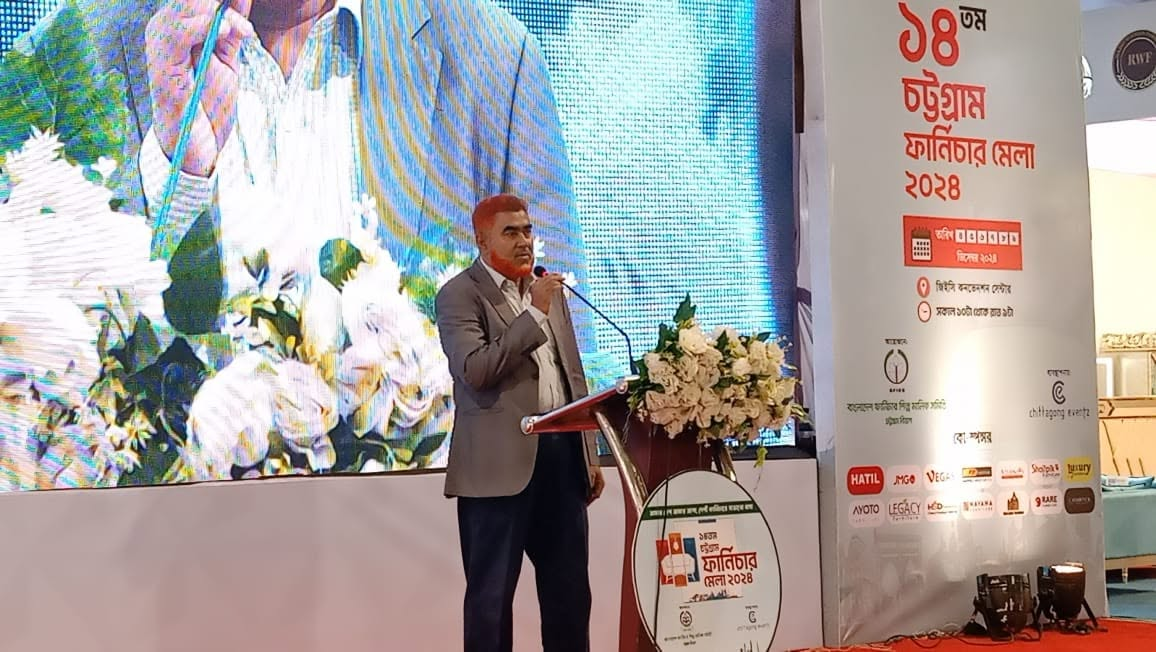
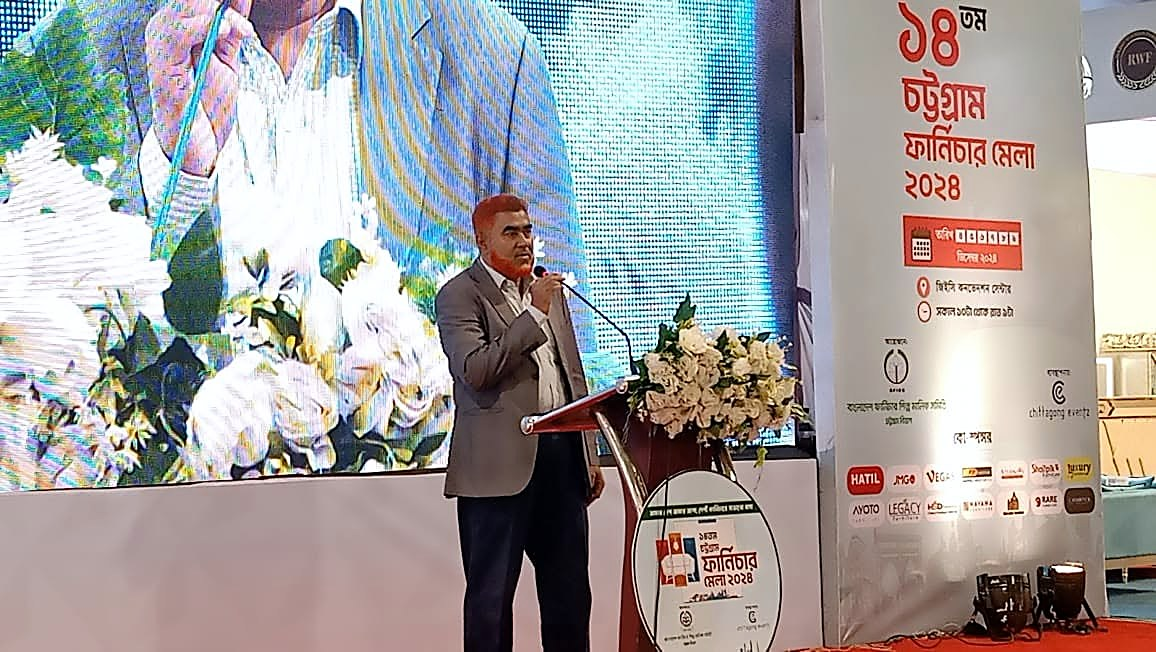
feat: update footer design and improve founder section animations
- Added a new wordmark line to the footer for enhanced branding.
- Refactored footer layout for better responsiveness and aesthetics.
- Replaced the background color of a collection panel for consistency.
- Implemented GSAP animations in the FounderSection for smoother scrolling effects.
- Adjusted image properties in the FounderSection for improved visual presentation.
- Imported a new font (Cinzel) for display purposes in the CSS.

diff --git a/playwright-report/index.html b/playwright-report/index.html
@@ -46,4 +46,4 @@ Error generating stack: `+e.message+`
     <div id='root'></div>
   </body>
 </html>
[2 lines of base64/hex data omitted]

diff --git a/src/components/sections/FounderSection.tsx b/src/components/sections/FounderSection.tsx
@@ -1,19 +1,40 @@
-import { useRef } from 'react'
+import { useEffect, useRef } from 'react'
 import { Link } from 'react-router'
 import { ArrowUpRight } from 'lucide-react'
-import { motion, useReducedMotion, useScroll, useTransform } from 'motion/react'
+import { gsap } from 'gsap'
+import { ScrollTrigger } from 'gsap/ScrollTrigger'
 import { Reveal, RevealImage } from '@/components/common/Reveal'
 import { SectionLabel } from '@/components/common/SectionLabel'
 import { Button } from '@/components/ui/button'
 import { brandImages } from '@/data/assets'
 import { site } from '@/data/site'
 
+gsap.registerPlugin(ScrollTrigger)
+
 export function FounderSection({ compact = false }: { compact?: boolean }) {
   const ref = useRef<HTMLElement>(null)
-  const reduce = useReducedMotion()
-  // Text drifts upward while the section crosses the viewport; progress is clamped so it rests at both ends.
-  const { scrollYProgress } = useScroll({ target: ref, offset: ['start end', 'end start'] })
-  const textY = useTransform(scrollYProgress, [0, 1], [reduce ? 0 : 80, reduce ? 0 : -80])
+  const textRef = useRef<HTMLDivElement>(null)
+
+  // Text drifts upward while the section crosses the viewport and rests once it has left.
+  useEffect(() => {
+    const section = ref.current
+    const text = textRef.current
+    if (!section || !text || window.matchMedia('(prefers-reduced-motion: reduce)').matches) return
+    const ctx = gsap.context(() => {
+      gsap.fromTo(
+        text,
+        { y: 90 },
+        {
+          y: -90,
+          ease: 'none',
+          // Measure after the pinned sections above (priority -2) have reserved their space.
+          scrollTrigger: { trigger: section, start: 'top bottom', end: 'bottom top', scrub: 0.8, invalidateOnRefresh: true, refreshPriority: -3 },
+        }
+      )
+    }, section)
+    ScrollTrigger.refresh()
+    return () => ctx.revert()
+  }, [])
 
   return (
     <section ref={ref} id="founder" className="section-pad overflow-hidden bg-brand-ivory text-brand-brown">
@@ -23,7 +44,7 @@ export function FounderSection({ compact = false }: { compact?: boolean }) {
             src={brandImages.founder}
             alt={`${site.founder.name}, ${site.founder.role} of Heaven Furniture Mart, speaking at the Chattogram Furniture Fair`}
             className="aspect-[4/5] w-full"
-            imgClassName="h-full w-full object-cover object-[42%_18%] saturate-[0.8] contrast-[1.04]"
+            imgClassName="h-full w-full object-cover object-[48%_30%]"
             sizes="(min-width:1024px) 40vw, 100vw"
           />
           <div aria-hidden className="pointer-events-none absolute inset-x-0 top-0 h-[calc(100%-2.5rem)] bg-gradient-to-t from-brand-ivory/40 via-transparent to-transparent" />
@@ -33,7 +54,7 @@ export function FounderSection({ compact = false }: { compact?: boolean }) {
           </Reveal>
         </div>
 
-        <motion.div style={{ y: textY }} className="flex flex-col justify-center will-change-transform lg:col-span-6 lg:col-start-7">
+        <div ref={textRef} className="flex flex-col justify-center will-change-transform lg:col-span-6 lg:col-start-7">
           <Reveal>
             <SectionLabel number={compact ? undefined : '06'}>A word from our founder</SectionLabel>
           </Reveal>
@@ -62,7 +83,7 @@ export function FounderSection({ compact = false }: { compact?: boolean }) {
               </Button>
             </Reveal>
           )}
-        </motion.div>
+        </div>
       </div>
     </section>
   )

diff --git a/src/components/layout/Footer.tsx b/src/components/layout/Footer.tsx
@@ -18,6 +18,8 @@ const socials = [
   { label: 'YouTube', href: site.social.youtube },
 ]
 
+const WORDMARK_LINE = 'FURNITURE MART'.split('')
+
 export function Footer() {
   return (
     <footer className="relative overflow-hidden bg-brand-ink text-brand-ivory">
@@ -116,14 +118,20 @@ export function Footer() {
         </div>
       </div>
 
-      <div
-        aria-hidden
-        className="pointer-events-none flex flex-col items-center select-none px-2 pb-3 text-center leading-none"
-      >
-        <span className="font-serif text-[16vw] leading-[0.8] tracking-[0.06em] text-brand-ivory/[0.035]">HEAVEN</span>
-        <span className="eyebrow mt-[0.5vw] text-[clamp(0.6rem,1.4vw,1.25rem)] tracking-[0.45em] text-brand-ivory/[0.09]">
-          Furniture Mart
-        </span>
+      <div aria-hidden className="pointer-events-none flex justify-center select-none px-2 pb-4 leading-none">
+        <div className="inline-flex flex-col">
+          <span className="font-display text-[15vw] leading-[0.85] font-medium tracking-[0.04em] text-brand-ivory/[0.09]">
+            HEAVEN
+          </span>
+          {/* Letters are spread so the line spans exactly the width of HEAVEN above */}
+          <span className="mt-[0.6vw] flex justify-between px-[0.6vw] font-display text-[clamp(0.9rem,3vw,3rem)] font-medium text-brand-ivory/35">
+            {WORDMARK_LINE.map((ch, i) => (
+              <span key={i} className={ch === ' ' ? 'w-[1.2em]' : undefined}>
+                {ch}
+              </span>
+            ))}
+          </span>
+        </div>
       </div>
     </footer>
   )

diff --git a/src/components/sections/CollectionsSection.tsx b/src/components/sections/CollectionsSection.tsx
@@ -14,7 +14,7 @@ const surfaces = [
   { bg: 'bg-brand-teal-deep', fg: 'text-brand-ivory', muted: 'text-brand-ivory/65', rule: 'border-brand-ivory/12', btn: 'ivory' },
   { bg: 'bg-brand-ivory-deep', fg: 'text-brand-brown', muted: 'text-brand-stone', rule: 'border-brand-brown/12', btn: 'ink' },
   { bg: 'bg-brand-teal', fg: 'text-brand-ivory', muted: 'text-brand-ivory/65', rule: 'border-brand-ivory/12', btn: 'ivory' },
-  { bg: 'bg-brand-ink', fg: 'text-brand-ivory', muted: 'text-brand-ivory/65', rule: 'border-brand-ivory/12', btn: 'gold' },
+  { bg: 'bg-brand-ivory', fg: 'text-brand-brown', muted: 'text-brand-stone', rule: 'border-brand-brown/12', btn: 'gold' },
 ] as const
 
 function CollectionPanel({ c, i }: { c: Category; i: number }) {

diff --git a/src/index.css b/src/index.css
@@ -8,6 +8,7 @@
 @import "@fontsource/cormorant-garamond/600-italic.css";
 @import "@fontsource-variable/manrope";
 @import "@fontsource-variable/geist";
+@import "@fontsource/cinzel/500.css";
 
 @custom-variant dark (&:is(.dark *));
 
@@ -88,6 +89,7 @@
   --font-heading: 'Cormorant Garamond', Georgia, serif;
   --font-serif: 'Cormorant Garamond', Georgia, serif;
   --font-sans: 'Manrope Variable', -apple-system, BlinkMacSystemFont, 'Segoe UI', Roboto, sans-serif;
+  --font-display: 'Cinzel', 'Cormorant Garamond', Georgia, serif;
   --color-brand-teal: var(--brand-teal);
   --color-brand-ivory: var(--brand-ivory);
   --color-brand-brown: var(--brand-brown);

diff --git a/src/components/assistant/AssistantWidget.tsx b/src/components/assistant/AssistantWidget.tsx
@@ -132,6 +132,8 @@ export function AssistantWidget() {
             key="panel"
             role="dialog"
             aria-labelledby={titleId}
+            // Lenis hijacks wheel events site-wide; opt the whole panel out so the log scrolls natively
+            data-lenis-prevent
             {...panelMotion}
             transition={{ duration: 0.3, ease: luxuryEase }}
             className={cn(
